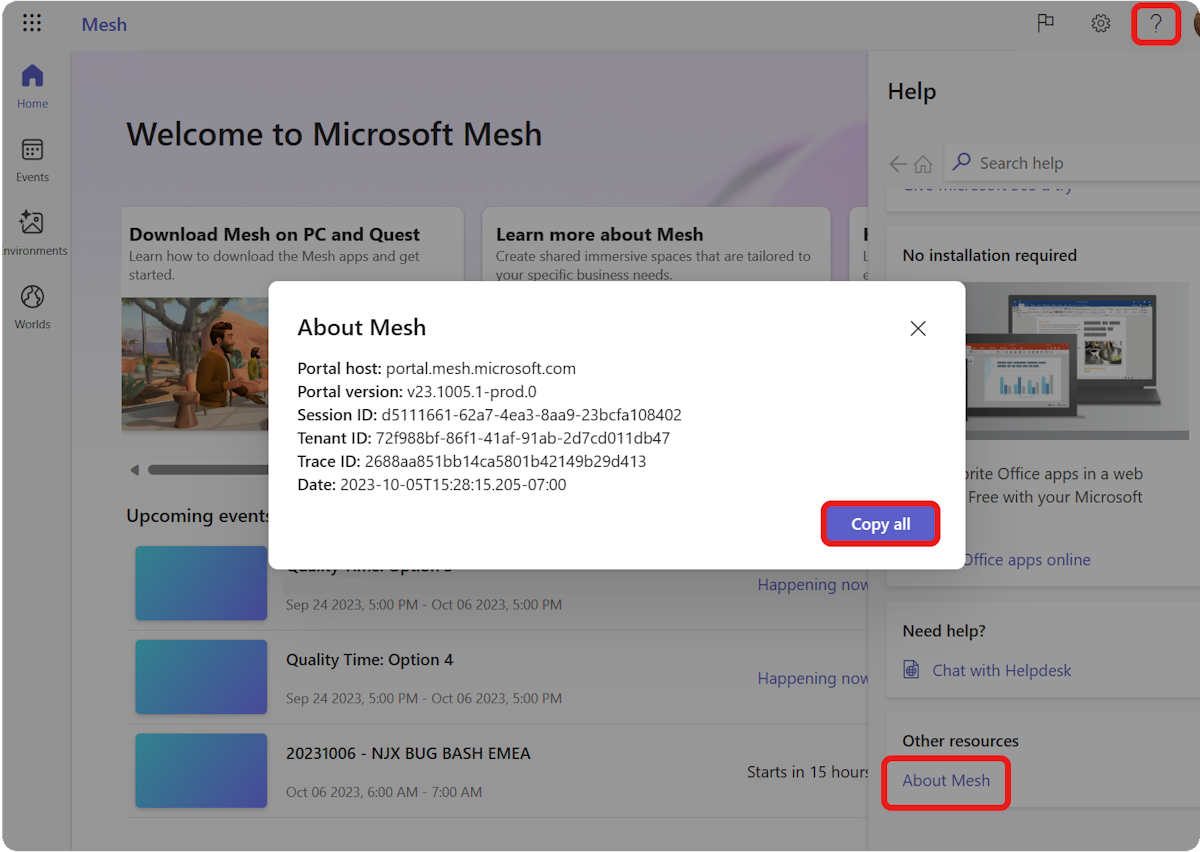
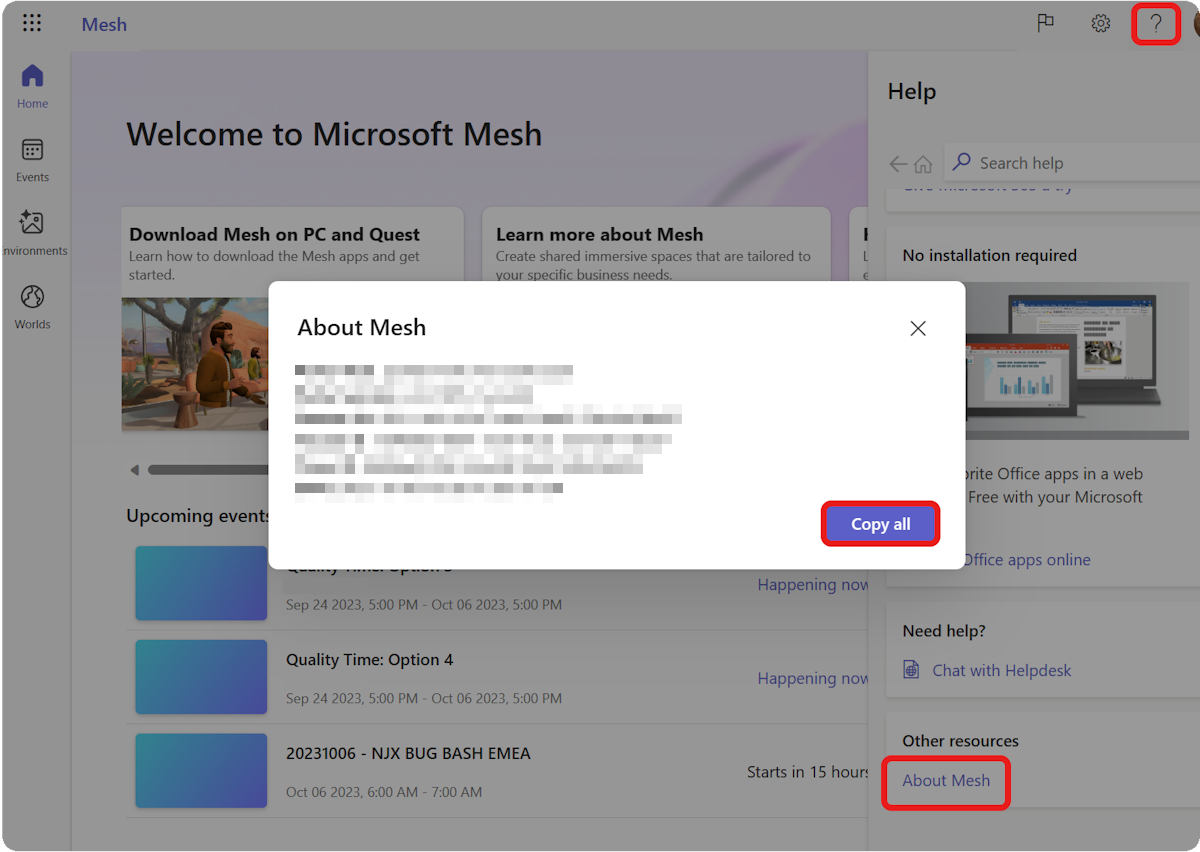
blurring out my specific session ids

Changed region(s): [[0.2467, 0.4272, 0.5858, 0.5798]]

diff --git a/mesh/Resources/mesh-troubleshooting.md b/mesh/Resources/mesh-troubleshooting.md
@@ -110,6 +110,15 @@ You'll need to first reproduce the problem, and then follow the steps below to c
 1. Click the **Copy all** button.
 1. Share that data with [Microsoft support](https://aka.ms/meshdevsupport).
 
+The data should be your version of the following: 
+
+- **Portal host:**
+- **Portal version:**
+- **Session ID:**
+- **Tenant ID:**
+- **Trace ID:**
+- **Date:**
+
 ### Audio setup in Mesh FAQ
 
 #### Which audio devices work best in Mesh?
